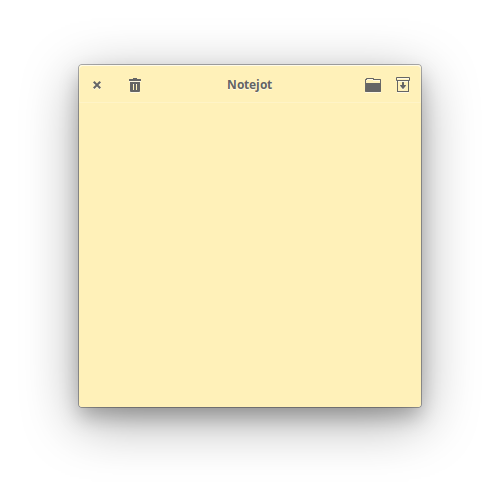
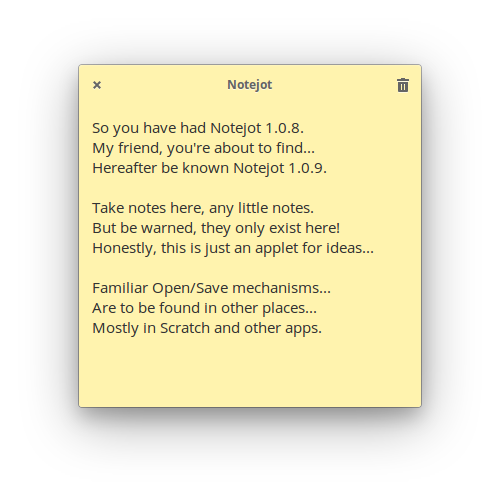
1.0.9 - Radical shift on the toolbar. Let's not overcharge the app.

diff --git a/README.md b/README.md
@@ -1,5 +1,5 @@
 # ![icon](data/icon.png) Notejot
-## Stupidly simple jotting pad.
+## Stupidly simple sticky notes applet.
 
 ![Screenshot](data/shot.png)
 
